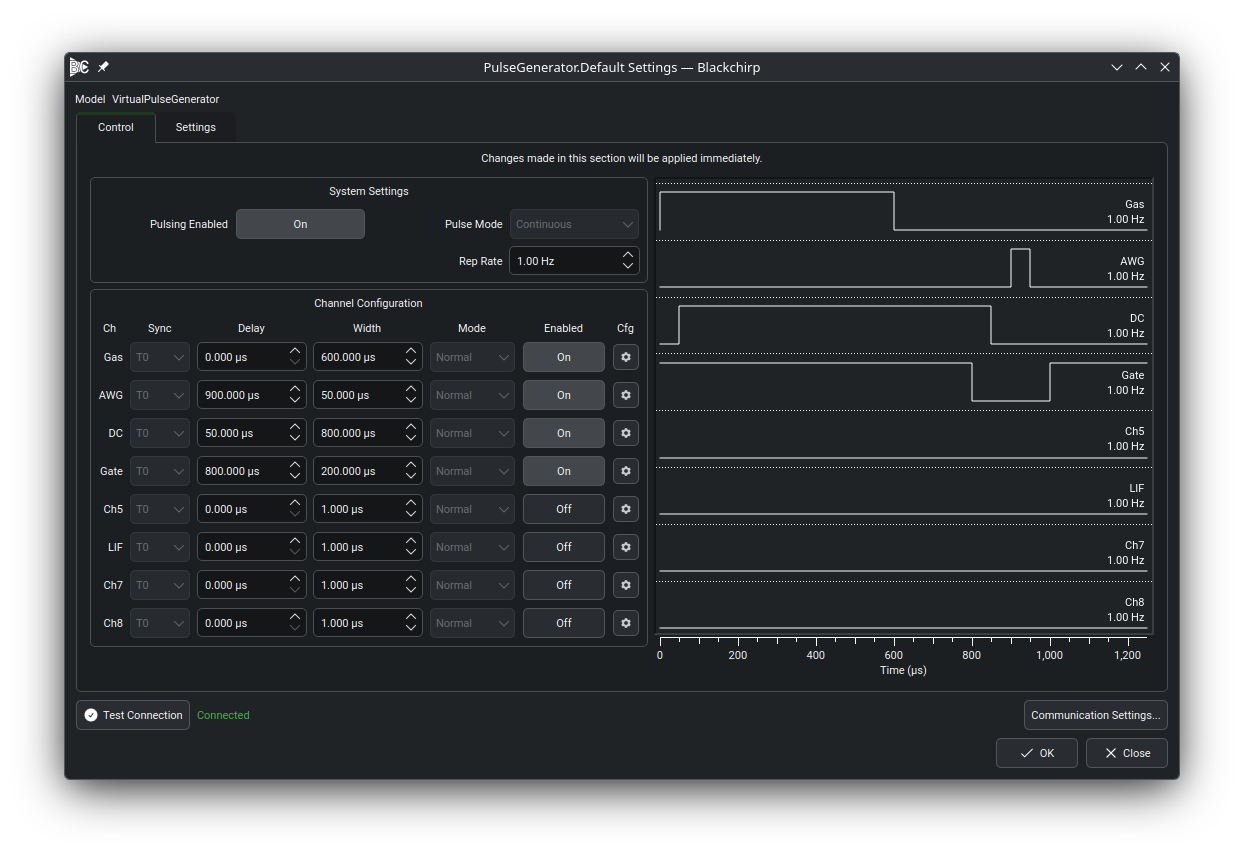
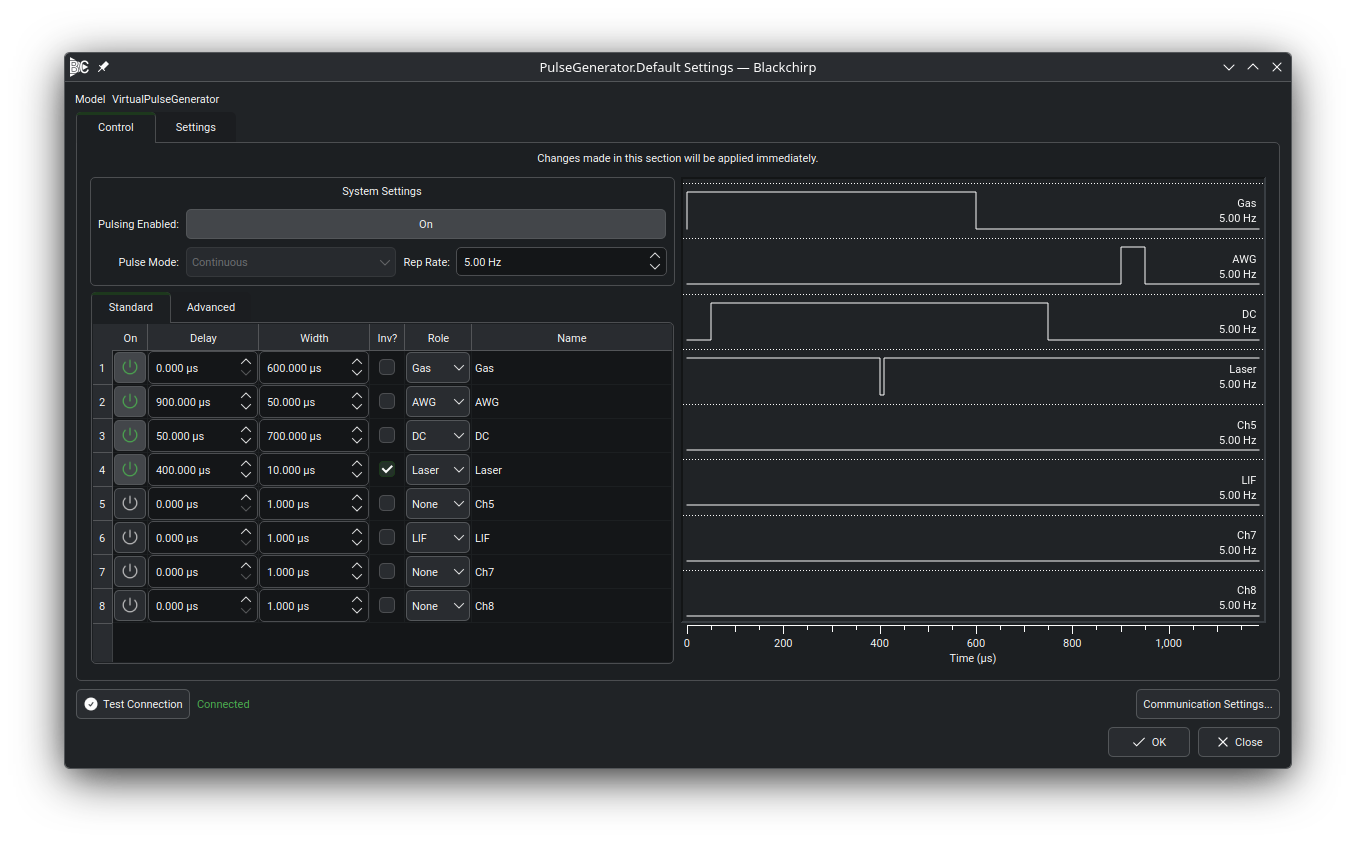
Tighten hardware_menu.rst and hwdialog.rst and refresh shots
Strip apologia and redundant restatements across the Hardware Menu
page; correct the FTMW Preset submenu to "disabled" rather than
"hidden" when no presets exist, matching the LoadoutManager menu-action
state. Collapse the Loadout and FTMW Preset sections to one-line
pointers to their canonical pages. On hwdialog.rst, merge the
duplicated Settings-tab help text into a single important block, fold
the Array Settings sub-section into the Advanced description, and
retarget the Communication Settings link to the existing
hardware-menu-communication anchor. Refresh the HwDialog Control- and
Settings-tab screenshots against the PulseConfigWidget reflow.

Changed region(s): [[0.0305, 0.0615, 0.9775, 0.9231], [0.3971, 0.0615, 0.6109, 0.0923], [0.7942, 0.4615, 0.8248, 0.4923]]

diff --git a/doc/source/user_guide/hwdialog.rst b/doc/source/user_guide/hwdialog.rst
@@ -13,28 +13,24 @@ Hardware Dialog
 ===============
 
 Selecting any per-device entry from the :ref:`Hardware menu
-<hardware-menu-device-entries>` opens the **Hardware Dialog** for that device.
-The dialog is a tabbed window. The title bar shows the hardware key
-(``Type.Label``) and the model name of the active driver.
-
-The dialog provides two tabs: **Control** (when available) and **Settings**.
-The tabs serve different purposes and have different save semantics — reading
-both sections carefully before making changes is recommended.
+<hardware-menu-device-entries>` opens the **Hardware Dialog** for that
+device. The title bar shows the hardware key (``Type.Label``) and the
+model name of the active driver. The dialog provides two tabs:
+**Control** (when available) and **Settings**, with different save
+semantics — read both sections before making changes.
 
 Below the tabs, a row of convenience controls is always visible:
 
-- **Test Connection** — runs the same connection check as the Communication
-  Dialog's per-device test, against the currently active communication
-  settings. An inline status label to the right of the button reports the
-  outcome (a green *Connected* indicator on success, a red *Connection failed*
-  indicator on failure with the error message available as a tooltip). The
-  button is disabled while a test is in flight.
-- **Communication Settings…** — opens the :ref:`Communication Settings dialog <user_guide/hardware_menu:Communication>` with this
-  device pre-selected. The Communication Dialog is non-modal, so it can stay
-  open alongside the Hardware Dialog while you adjust protocol or read-option
-  settings; if it is already open, clicking the link raises it and switches
-  the selection to this device. The Communication Dialog closes automatically
-  when a real (non peak-up) experiment starts.
+- **Test Connection** — runs the same connection check as the
+  Communication Dialog's per-device test. An inline status label to the
+  right reports the outcome (green ``Connected`` on success, red
+  ``Connection failed`` on failure, with the error message available as
+  a tooltip). The button is disabled while a test is in flight.
+- **Communication Settings…** — opens the :ref:`hardware-menu-communication`
+  dialog with this device pre-selected. The Communication Dialog is
+  non-modal; if it is already open, clicking the button raises it and
+  switches the selection. It closes automatically when a real
+  (non peak-up) experiment starts.
 
 .. _hwdialog-control:
 
@@ -50,33 +46,27 @@ Control Tab
    group, per-channel configuration table, and the timing-diagram pane that
    previews the resulting pulse train.
 
-The **Control** tab is present for hardware types that expose live, interactive
-controls. The screenshot above shows the Pulse Generator's Control tab; other
-devices follow the same pattern but with controls appropriate to their
-function. Examples include:
+The **Control** tab is present for hardware types that expose live,
+interactive controls. The screenshot above shows the Pulse Generator's
+Control tab; other devices follow the same pattern with controls
+appropriate to their function:
 
-- **Pulse Generator** — a *System Settings* group with a master enable, the
-  pulse mode (continuous or triggered), and the global repetition rate; a
-  *Channel Configuration* table with one row per channel exposing the sync
-  source, delay, width, mode, and enable state, plus a per-channel cog
-  button that opens a configuration sub-dialog for advanced channel
-  settings; and a timing-diagram pane on the right that previews the pulse
-  train derived from the current channel settings.
-- **Flow Controller** — gas channel setpoints, channel names, and pressure
-  control mode. Changes are sent to the instrument as each value is modified.
-- **Pressure Controller** — pressure setpoint, control mode toggle, and gate
-  valve open/close actions. Each action is transmitted immediately.
-- **Temperature Controller** — per-channel enable and name assignment; values
-  are sent immediately upon change.
-
-A label at the top of the Control tab reads: *"Changes made in this section
-will be applied immediately."*
+- **Pulse Generator** — a *System Settings* group (master enable, pulse
+  mode, global repetition rate), a *Channel Configuration* table (one
+  row per channel: sync source, delay, width, mode, enable, and a cog
+  button for advanced settings), and a timing-diagram pane that previews
+  the pulse train.
+- **Flow Controller** — gas channel setpoints, channel names, and
+  pressure control mode.
+- **Pressure Controller** — pressure setpoint, control mode toggle, and
+  gate-valve open/close actions.
+- **Temperature Controller** — per-channel enable and name assignment.
 
 .. important::
-   Commands issued through the Control tab are transmitted to the hardware
-   as soon as you interact with the controls. Closing the dialog with the
-   **Close** button or the window's **X** button does **not** undo control
-   commands — those changes have already been sent to the instrument.
+   Control-tab changes are sent to the instrument as each value is
+   modified. Closing the dialog with **Close** or **X** does **not**
+   undo those commands. A label at the top of the tab reads:
+   *"Changes made in this section will be applied immediately."*
 
 .. _hwdialog-settings:
 
@@ -92,66 +82,46 @@ Settings Tab
    sub-tabs separate the Settings group (Required + Important settings)
    from the Advanced group; the Advanced sub-tab is shown here.
 
-A label at the top of the Settings tab reads: *"Changes made in this section
-will only be applied when this dialog is closed with the Ok button. Editing
-these settings incorrectly may result in unexpected behavior. Consider backing
-up your config file before making changes."*
-
 Each device can declare any number of persistent settings, organized by
-priority. The Settings tab presents them through a nested set of sub-tabs:
+priority. The Settings tab presents them through a nested set of
+sub-tabs:
 
-- A **Settings** sub-tab containing the Required and Important groups (when
-  any are declared).
+- A **Settings** sub-tab containing the Required and Important groups
+  (when any are declared).
 - An **Advanced** sub-tab, shown only when the device declares advanced
   settings.
 
-The screenshot above shows the Advanced sub-tab for the PulseGenerator. The
-Settings sub-tab would render the Required and Important groups described
-below.
+The screenshot above shows the Advanced sub-tab for the PulseGenerator;
+the Settings sub-tab would render the Required and Important groups
+described below.
 
 **Required**
-   Parameters that must be set correctly at profile creation time (for example,
-   the number of digitizer input channels or the AWG output count). They appear
-   in a *Required Settings* group on the **Settings** sub-tab and are displayed
-   as read-only text — they cannot be changed once a profile has been created.
-   To change a Required setting, create a new profile via
-   :doc:`hardware_config/profiles`.
+   Parameters that must be set correctly at profile creation time (for
+   example, the number of digitizer input channels or the AWG output
+   count). They appear in a *Required Settings* group on the
+   **Settings** sub-tab as read-only text and cannot be changed once a
+   profile has been created. To change a Required setting, create a new
+   profile via :doc:`hardware_config/profiles`.
 
 **Important**
-   Settings with sensible defaults that you should review and confirm. They
-   appear in an *Important Settings* group on the **Settings** sub-tab as a
-   two-column table (Setting | Value) with editable widgets. Typical examples
-   include communication-level defaults, calibration constants, and operating
-   limits.
+   Settings with sensible defaults that should be reviewed and
+   confirmed. They appear in an *Important Settings* group on the
+   **Settings** sub-tab as a two-column table (Setting | Value) with
+   editable widgets. Typical examples include communication-level
+   defaults, calibration constants, and operating limits.
 
 **Advanced**
    Settings that rarely need to change. They appear on the **Advanced**
-   sub-tab as a Setting/Value table. The Advanced sub-tab is added only when
-   advanced settings are declared. Array-type settings (for example, a list of
-   available sample rates) are also edited here using a dedicated sub-dialog
-   opened via an **Edit** button in the table row.
+   sub-tab as a Setting/Value table. Array-type settings (for example,
+   a list of available sample rates) appear as a row with an **Edit**
+   button that opens a sub-dialog for adding, removing, or reordering
+   entries; the edits are staged until the parent dialog is accepted.
 
 .. important::
-   Settings tab changes are written to persistent storage **only** when you
-   click **OK**. Closing the dialog with the **Close** button or the window's
-   **X** button discards all unsaved Settings changes. This is intentional: the
-   Settings tab modifies persistent configuration data, and the explicit
-   confirmation step prevents accidental changes.
-
-   This is distinct from the Control tab, where commands are sent immediately
-   and cannot be recalled by closing the dialog.
-
-.. warning::
-   Incorrect or inappropriate settings may cause unexpected program behavior.
-   Consider backing up your configuration file before making changes to
-   hardware settings.
-
-Array Settings
-~~~~~~~~~~~~~~
-
-Some devices declare array-type settings — for example, an ordered list of
-supported sample rates. Each array setting appears as a table row showing the
-current entry count and an **Edit** button. Clicking **Edit** opens the
-array-edit sub-dialog, where you can add, remove, or reorder entries. Changes
-made in the sub-dialog are staged in the Settings tab and written to storage
-only when the parent dialog is accepted with **OK**.
+   Settings-tab changes are written to persistent storage **only** when
+   the dialog is closed with **OK**. Closing with **Close** or **X**
+   discards all unsaved changes. A label at the top of the tab reads:
+   *"Changes made in this section will only be applied when this dialog
+   is closed with the Ok button. Editing these settings incorrectly may
+   result in unexpected behavior. Consider backing up your config file
+   before making changes."*

diff --git a/doc/source/user_guide/hardware_menu.rst b/doc/source/user_guide/hardware_menu.rst
@@ -24,35 +24,28 @@ Hardware Menu
    The **Hardware** toolbar menu, showing the entry order and the per-device
    actions contributed by the active loadout.
 
-The **Hardware** toolbar button opens a menu that provides access to every
-instrument-level control and configuration surface in Blackchirp. The entries
-appear in the following order:
+The **Hardware** toolbar button opens a menu with every instrument-level
+control and configuration surface, in this order:
 
 #. **Hardware Selection** — opens the :doc:`Hardware Configuration
-   <hardware_config>` dialog, where you can switch or reconfigure the active
-   loadout and its hardware map.
-#. **Loadout** submenu — lists all defined loadouts; the active loadout is
-   checked. Switching loadouts is gated to the Disconnected and Idle states.
-#. **FTMW Preset** submenu — lists the FTMW presets that belong to the active
-   loadout (hidden when the active loadout has no named presets). The active
-   preset is checked. Switching presets is gated to Disconnected and Idle
-   states.
-#. **Communication** (``Ctrl+H``) — opens the Communication dialog (see
-   below).
+   <hardware_config>` dialog.
+#. **Loadout** submenu — lists all defined loadouts; the active one is
+   checked. Switching is gated to the Disconnected and Idle states.
+#. **FTMW Preset** submenu — lists the named FTMW presets belonging to the
+   active loadout; the active preset is checked. Disabled when the active
+   loadout has no named presets. Switching is gated to the Disconnected and
+   Idle states.
+#. **Communication** (``Ctrl+H``) — opens the Communication Settings dialog.
 #. **Test All Connections** (``Ctrl+T``) — attempts to reconnect to all
    hardware using the current protocol settings.
-#. **FTMW Configuration** — opens the FTMW configuration dialog for the active
-   preset. See :doc:`ftmw_configuration` for the RF chain, chirp, and digitizer
-   settings; see :doc:`ftmw_configuration/presets` for preset management.
+#. **FTMW Configuration** — opens the FTMW configuration dialog for the
+   active preset (see :doc:`ftmw_configuration` and
+   :doc:`ftmw_configuration/presets`).
 #. **LIF Configuration** *(visible only when the LIF module is enabled)* —
    opens the LIF configuration dialog.
-#. **Per-device entries** — one entry per device in the active hardware map,
-   labeled by the device's hardware key (``Type.Label``). Selecting an entry
-   opens the :doc:`Hardware Dialog <hwdialog>` for that device. These entries
-   stay reachable regardless of connection state so that cached settings can be
-   inspected and Python scripts can be reloaded after a failure; the dialog's
-   **Control** tab is disabled while the device is offline and re-enabled
-   automatically when the device reconnects.
+#. **Per-device entries** — one entry per device in the active hardware
+   map, labeled by the device's hardware key (``Type.Label``). Selecting
+   an entry opens the :doc:`Hardware Dialog <hwdialog>` for that device.
 
 .. _hardware-menu-communication:
 
@@ -68,13 +61,7 @@ Communication
    the active hardware map with a connection-status indicator; the right
    panel shows protocol-specific parameters for the selected device.
 
-**Communication** opens the Communication Settings dialog. The dialog uses a
-master-detail layout: the left panel lists every device in the active hardware
-map, and the right panel shows the protocol configuration for the selected
-device.
-
-Each device exposes the communication protocols supported by its driver.
-The available protocol types are:
+Each device exposes the communication protocols its driver supports:
 
 - **RS232** — direct serial port connection (USB-to-serial adapters are
   common; FTDI-based adapters are recommended for their per-device serial
@@ -87,28 +74,26 @@ The available protocol types are:
 - **Virtual** — software-only driver; no physical connection is
   required.
 
-Selecting a protocol from the drop-down immediately shows the
-protocol-specific parameter fields (port, baud rate, IP address, etc.) in the
-right panel. Common read options — response timeout and termination character —
-appear below the protocol fields and apply regardless of protocol type.
+Selecting a protocol from the drop-down shows the protocol-specific
+parameter fields (port, baud rate, IP address, etc.) in the right panel.
+Common read options — response timeout and termination character — appear
+below the protocol fields and apply regardless of protocol type.
 
 Click **Test Connection** to verify the selected device, or **Test All
-Devices** to test every device in sequence. Connection status is indicated next
-to each device name in the left panel.
+Devices** to test every device in sequence. Connection status is indicated
+next to each device name in the left panel.
 
 .. tip::
-   For **TCP** instruments, it is recommended to use a dedicated network
-   interface and configure devices on the link-local (169.254.x.x) address
-   space. Many instruments support 1 Gbps; ensure your adapter and any switches
-   match that speed.
+   For **TCP** instruments, use a dedicated network interface and configure
+   devices on the link-local (169.254.x.x) address space. Many instruments
+   support 1 Gbps; ensure the adapter and any switches match.
 
    For **GPIB** devices, verify the connection to the GPIB bridge controller
    first; all GPIB instruments share that link.
 
-   If a device fails to respond after changing protocol settings, it is worth
-   testing the connection a second time. A device that previously received
-   malformed bytes may need to drain its input buffer before it can process a
-   valid query.
+   If a device fails to respond after a protocol change, test the connection
+   a second time. A device that received malformed bytes may need to drain
+   its input buffer before it can process a valid query.
 
 .. rubric:: RS232 / USB-to-serial adapters on Linux
 
@@ -149,47 +134,28 @@ reliable targets for ``udev`` rules.
 Loadout Submenu
 ---------------
 
-The **Loadout** submenu lists every defined loadout. The active loadout is
-marked with a checkmark. Selecting a different loadout switches the active
-hardware map; this action is gated to the Disconnected and Idle states.
-
-See :doc:`hardware_config/loadouts` for a full description of the loadout
-concept and the Hardware Configuration dialog used to create and manage
-loadouts.
+See :doc:`hardware_config/loadouts` for the loadout concept and the
+Hardware Configuration dialog used to create and manage loadouts.
 
 .. _hardware-menu-ftmw-preset:
 
 FTMW Preset Submenu
 -------------------
 
-The **FTMW Preset** submenu lists the named FTMW presets that belong to the
-active loadout. The submenu is disabled when the active loadout has no named
-presets. The currently active preset is marked with a checkmark; selecting
-another preset switches the active FTMW configuration.
-
-Preset switching is gated to the Disconnected and Idle states.
-
-See :doc:`ftmw_configuration/presets` for a description of FTMW presets and
-the FTMW Configuration dialog.
+See :doc:`ftmw_configuration/presets` for FTMW presets and the FTMW
+Configuration dialog.
 
 .. _hardware-menu-device-entries:
 
 Per-Device Entries
 ------------------
 
-Below the FTMW Configuration entry, one menu action appears for each device in
-the active hardware map, labeled by the device's hardware key
-(``Type.Label``). Selecting an entry opens the :doc:`Hardware Dialog
-<hwdialog>` for that device. These entries stay reachable regardless of
-connection state — including while Blackchirp is in the **Disconnected** state
-following a critical hardware failure — so that the user can inspect or edit
-cached settings, fix a bad communication parameter, or reload a Python script
-without restarting the application.
-
-The Hardware Dialog provides a **Settings** tab for persistent device settings
-and, for devices that support live control, a **Control** tab. The **Control**
-tab is disabled while the device is offline and re-enabled automatically when
-the device reconnects; the **Settings** tab is always editable. For Python
-hardware, the script-reload controls remain active even while the rest of the
-**Control** tab is disabled, so a broken script can be edited and reloaded
-in place. See :doc:`hwdialog` for a full description of both tabs.
+One menu action appears for each device in the active hardware map.
+Per-device entries remain reachable while a device is offline (including
+the **Disconnected** state that follows a critical hardware failure), so
+cached settings can be inspected, a bad communication parameter fixed, or
+a Python script reloaded without restarting the application. The
+**Control** tab of the Hardware Dialog is disabled while the device is
+offline and re-enabled when the device reconnects; the **Settings** tab
+and Python script-reload controls remain active throughout. See
+:doc:`hwdialog`.

diff --git a/dev-docs/user-guide-cleanup.md b/dev-docs/user-guide-cleanup.md
@@ -185,8 +185,8 @@ Hardware Setup:
 - [x] `hardware_config/ftmw_presets.rst` (moved to
   `ftmw_configuration/presets.rst` under Running Experiments)
 - [x] `python_hardware.rst` and `python_hardware/` sub-pages
-- [ ] `hardware_menu.rst`
-- [ ] `hwdialog.rst` (now a sub-page of `hardware_menu`)
+- [x] `hardware_menu.rst`
+- [x] `hwdialog.rst` (now a sub-page of `hardware_menu`)
 - [ ] `hardware_details.rst`
 - [ ] `hw/*.rst` — per-device pages; light pass already touched
   `ftmwdigitizer.rst`, `lifdigitizer.rst`, `ioboard.rst` to strip
@@ -262,8 +262,6 @@ page:
   PulseStatusBox.
 - [ ] `ftmw_configuration-digitizer.png` — Digitizer Config tab;
   layout change is substantial.
-- [ ] `hwdialog-control_tab.png` — Pulse Generator Control tab;
-  channel grid was rewritten.
 - [ ] `lif-lif_config.png` — LIF Configuration dialog.
 - [ ] `lif-lif_tab.png` — LIF Display tab (processing panel and
   in-canvas legend).
@@ -281,9 +279,6 @@ actually visible at the capture frame:
   `experiment-sequence.png`, `lif-lif_exp_setup.png` — all live
   inside ExperimentSetupDialog; dialog chrome (nav tree, status
   area) changed even if the page-specific contents did not.
-- [ ] `hwdialog-settings_tab.png` — Pulse Generator Settings tab;
-  the device-level settings registry did not change, but the dialog
-  size and frame did.
 - [ ] No new TemperatureControlWidget screenshot exists in the doc
   set; flag if a user-guide page is added that surfaces it.
 